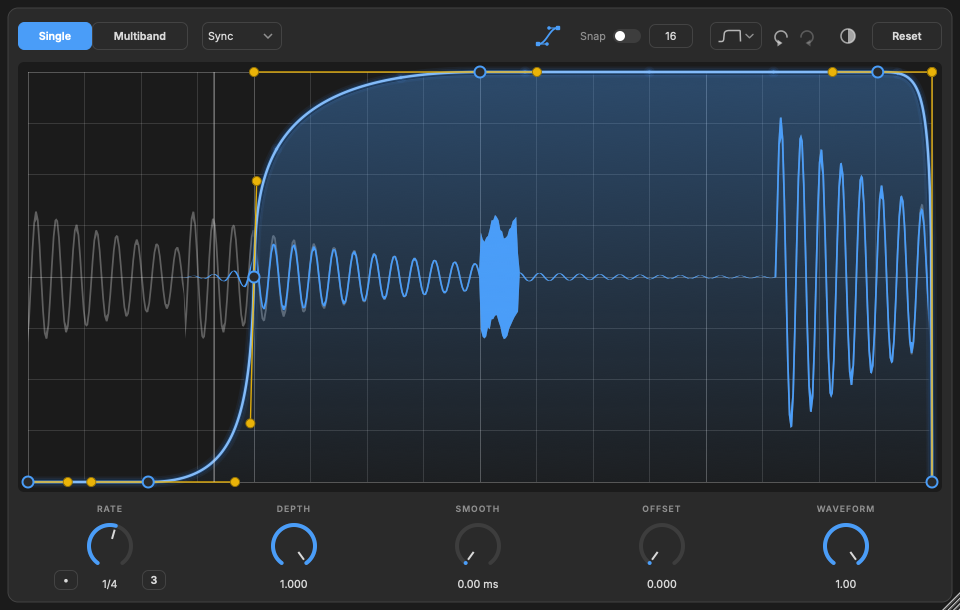
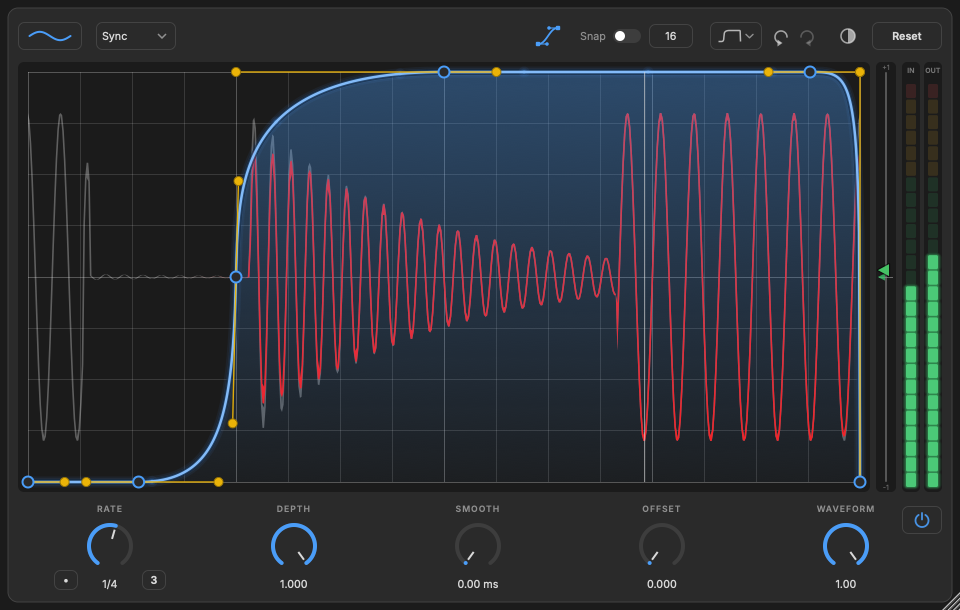
Audit cleanups: cheaper colour tracking, allocation-free spectrum, versioned curve copies; refreshed README and images; spectrum test

diff --git a/Source/Spectrum.h b/Source/Spectrum.h
@@ -1,5 +1,6 @@
 #pragma once
 // A small live spectrum for the multiband strip. Pure C++ (no JUCE): a radix-2 FFT and the dB conversion.
+// The analyser owns its buffers, window and twiddle factors, so a call allocates nothing (the editor runs it 30 times a second).
 #include <cmath>
 #include <complex>
 #include <vector>
@@ -8,48 +9,51 @@ namespace spectrum
 {
     constexpr int fftSize = 4096;
 
-    // In-place radix-2 FFT (size must be a power of two).
-    inline void fft(std::vector<std::complex<float>>& a)
+    class Analyser
     {
-        const size_t n = a.size();
-        for (size_t i = 1, j = 0; i < n; ++i)
+    public:
+        Analyser() : buf((size_t) fftSize), window((size_t) fftSize), twiddle((size_t) fftSize / 2), rev((size_t) fftSize)
         {
-            size_t bit = n >> 1;
-            for (; j & bit; bit >>= 1) j ^= bit;
-            j ^= bit;
-            if (i < j) std::swap(a[i], a[j]);
-        }
-        for (size_t len = 2; len <= n; len <<= 1)
-        {
-            const float ang = -6.28318530718f / (float) len;
-            const std::complex<float> wl(std::cos(ang), std::sin(ang));
-            for (size_t i = 0; i < n; i += len)
+            for (int i = 0; i < fftSize; ++i)
+                window[(size_t) i] = 0.5f - 0.5f * std::cos(6.28318530718f * (float) i / (float) fftSize);   // Hann
+            for (int k = 0; k < fftSize / 2; ++k)
             {
-                std::complex<float> w(1.f, 0.f);
-                for (size_t k = 0; k < len / 2; ++k)
-                {
-                    const auto u = a[i + k], v = a[i + k + len / 2] * w;
-                    a[i + k] = u + v;
-                    a[i + k + len / 2] = u - v;
-                    w *= wl;
-                }
+                const double a = -6.283185307179586 * (double) k / (double) fftSize;
+                twiddle[(size_t) k] = { (float) std::cos(a), (float) std::sin(a) };
+            }
+            for (int i = 1, j = 0; i < fftSize; ++i)   // bit-reversal table
+            {
+                int bit = fftSize >> 1;
+                for (; j & bit; bit >>= 1) j ^= bit;
+                j ^= bit;
+                rev[(size_t) i] = j;
             }
         }
-    }
 
-    // Magnitude in dB (0 dB = a full-scale sine) for bins 0..n/2, from n windowed samples.
-    inline void magnitudesDb(const float* samples, std::vector<float>& outDb)
-    {
-        std::vector<std::complex<float>> a((size_t) fftSize);
-        for (int i = 0; i < fftSize; ++i)
+        // Magnitude in dB (0 dB = a full-scale sine) for bins 0..n/2, from fftSize samples.
+        void magnitudesDb(const float* samples, std::vector<float>& outDb)
         {
-            const float w = 0.5f - 0.5f * std::cos(6.28318530718f * (float) i / (float) fftSize); // Hann
-            a[(size_t) i] = { samples[i] * w, 0.f };
+            for (int i = 0; i < fftSize; ++i) buf[(size_t) rev[(size_t) i]] = { samples[i] * window[(size_t) i], 0.f };
+            for (int len = 2; len <= fftSize; len <<= 1)
+            {
+                const int half = len / 2, stride = fftSize / len;
+                for (int i = 0; i < fftSize; i += len)
+                    for (int k = 0; k < half; ++k)
+                    {
+                        const auto u = buf[(size_t) (i + k)], v = buf[(size_t) (i + k + half)] * twiddle[(size_t) (k * stride)];
+                        buf[(size_t) (i + k)] = u + v;
+                        buf[(size_t) (i + k + half)] = u - v;
+                    }
+            }
+            outDb.resize((size_t) fftSize / 2);
+            const float norm = 4.f / (float) fftSize;   // a full-scale sine gives magnitude 1
+            for (size_t k = 0; k < outDb.size(); ++k)
+                outDb[k] = 20.f * std::log10(std::max(1e-7f, std::abs(buf[k]) * norm));
         }
-        fft(a);
-        outDb.resize((size_t) fftSize / 2);
-        const float norm = 4.f / (float) fftSize; // a full-scale sine gives magnitude 1
-        for (size_t k = 0; k < outDb.size(); ++k)
-            outDb[k] = 20.f * std::log10(std::max(1e-7f, std::abs(a[k]) * norm));
-    }
+
+    private:
+        std::vector<std::complex<float>> buf, twiddle;
+        std::vector<float> window;
+        std::vector<int> rev;
+    };
 }

diff --git a/tests/audio_test.cpp b/tests/audio_test.cpp
@@ -7,6 +7,7 @@
 // filter stability, NaN/Inf and extreme-setting robustness, tempo accuracy at 130 bpm, the sidechain bus, no
 // allocations on the audio thread, thread safety while the curve is edited, state save/load, and CPU in worst cases.
 #include "../Source/PluginProcessor.h"
+#include "../Source/Spectrum.h"
 #include "fake_host.h"
 
 #include <algorithm>
@@ -354,6 +355,25 @@ static void testMeters()
     const float mi = r.p.meterIn.load(), mo = r.p.meterOut.load();
     check(mi > 0.45f && mi < 0.52f, "input meter reads the input peak", fmt("%.3f (input peak 0.5)", mi));
     check(mo <= mi + 1e-4f && mo > 0.f, "output meter reads at most the input peak", fmt("%.3f", mo));
+}
+
+// ---------------------------------------------------------------------------------------------
+// The spectrum analyser: a sine lands in the right bin at the right level.
+// ---------------------------------------------------------------------------------------------
+static void testSpectrum()
+{
+    section("3c2. Spectrum analyser");
+    spectrum::Analyser a;
+    std::vector<float> sig((size_t) spectrum::fftSize), db;
+    const int bin = 100;
+    for (int i = 0; i < spectrum::fftSize; ++i)
+        sig[(size_t) i] = 0.5f * (float) std::sin(6.283185307179586 * (double) bin * (double) i / (double) spectrum::fftSize);
+    a.magnitudesDb(sig.data(), db);
+    size_t peak = 0;
+    for (size_t k = 1; k < db.size(); ++k) if (db[k] > db[peak]) peak = k;
+    check(peak == (size_t) bin, "a sine lands in the right bin", fmt("bin %zu (expected %d)", peak, bin));
+    check(std::abs(db[peak] - (-6.02f)) < 0.6f, "a 0.5 sine reads about -6 dB", fmt("%.2f dB", db[peak]));
+    check(db[(size_t) bin + 40] < db[peak] - 60.f, "far from the sine it is quiet", fmt("%.1f dB below", db[peak] - db[(size_t) bin + 40]));
 }
 
 // ---------------------------------------------------------------------------------------------
@@ -931,6 +951,7 @@ int main()
     testMultibandTransparent();
     testKnobLinks();
     testMeters();
+    testSpectrum();
     testBypass();
     testBlockSizes();
     testSmoothingSlew();

diff --git a/Source/PluginProcessor.cpp b/Source/PluginProcessor.cpp
@@ -608,16 +608,16 @@ void FreeLfoProcessor::processSingle(juce::AudioBuffer<float>& mainBuf, const Ho
                     lp1500 += c1500 * (mono - lp1500);
                     eLow += eCoef * (std::abs(lp150) - eLow);
                     eHigh += eCoef * (std::abs(mono - lp1500) - eHigh);
-                    if (zcEnv > 0.01f)
+                    if (isNew && zcEnv > 0.01f)   // the colour only needs updating when the position enters a new bin
                     {
                         const float mixNow = juce::jlimit(0.f, 1.f, 2.f * juce::jmin(eLow, eHigh) / (eLow + eHigh + 1e-6f));
                         auto& mixA = waveMix[(size_t) bin];
-                        mixA.store(mixA.load(std::memory_order_relaxed) * 0.94f + mixNow * 0.06f, std::memory_order_relaxed);
+                        mixA.store(mixA.load(std::memory_order_relaxed) * 0.5f + mixNow * 0.5f, std::memory_order_relaxed);
                         const float hz = juce::jlimit(40.f, 16000.f, zcrSmooth * 0.5f * (float) sr);
-                        const float t = std::log(hz / 40.f) / std::log(16000.f / 40.f);
+                        const float t = std::log(hz * (1.f / 40.f)) * (1.f / 5.9914645f);   // ln(16000 / 40)
                         auto& hue = waveHue[(size_t) bin];
                         const float old = hue.load(std::memory_order_relaxed);
-                        hue.store(old < 0.f ? t : old + (t - old) * 0.06f, std::memory_order_relaxed);
+                        hue.store(old < 0.f ? t : old + (t - old) * 0.5f, std::memory_order_relaxed);
                     }
                 }
                 lastWaveBin = bin;

diff --git a/Source/EnvelopeEditor.cpp b/Source/EnvelopeEditor.cpp
@@ -569,11 +569,19 @@ void EnvelopeEditor::frame()
     if (now - lastFrameMs < 14.0) return; // ~60 fps cap, even on 120 Hz displays
     lastFrameMs = now;
 
+    // Copy a curve only when it changed (60 times a second would otherwise copy up to three curves for nothing)
     if (dragPoint < 0 && dragKind == 0 && dragSeg < 0)
-        env = proc.getEnvelope(slot);
+    {
+        const int v = proc.envelopeVersion(slot);
+        if (v != seenVersion[0] || seenSlot != slot) { env = proc.getEnvelope(slot); seenVersion[0] = v; seenSlot = slot; }
+    }
     if (slot > 0)
         for (int other = 1; other <= 3; ++other)
-            if (other != slot) ghost[other - 1] = proc.getEnvelope(other);
+            if (other != slot)
+            {
+                const int v = proc.envelopeVersion(other);
+                if (v != seenVersion[other]) { ghost[other - 1] = proc.getEnvelope(other); seenVersion[other] = v; }
+            }
 
     // Idle = no repaint: only redraw when audio is flowing or something changed.
     const unsigned blk = proc.blockCounter.load(std::memory_order_relaxed);

diff --git a/Source/MultibandPanel.cpp b/Source/MultibandPanel.cpp
@@ -54,13 +54,14 @@ void BandStrip::updateSpectrum()
     if (specDb.empty()) { specDb.assign((size_t) spectrum::fftSize / 2, -120.f); specDbOut = specDb; }
 
     auto analyse = [&](const std::array<std::atomic<float>, FreeLfoProcessor::specSize>& fifo, std::vector<float>& smooth) {
-        std::vector<float> samples((size_t) spectrum::fftSize);
+        specSamples.resize((size_t) spectrum::fftSize);
+        auto& samples = specSamples;
         const int w = proc.specPos.load(std::memory_order_acquire);
         for (int i = 0; i < spectrum::fftSize; ++i)
             samples[(size_t) i] = fifo[(size_t) ((w + FreeLfoProcessor::specSize - spectrum::fftSize + i) % FreeLfoProcessor::specSize)]
                                       .load(std::memory_order_relaxed);
-        std::vector<float> db;
-        spectrum::magnitudesDb(samples.data(), db);
+        auto& db = specTmpDb;
+        analyser.magnitudesDb(samples.data(), db);
         for (size_t k = 0; k < smooth.size(); ++k)
             smooth[k] += (db[k] - smooth[k]) * (db[k] > smooth[k] ? 0.6f : 0.12f);
     };

diff --git a/Source/PluginProcessor.h b/Source/PluginProcessor.h
@@ -39,6 +39,7 @@ public:
     // slot 0 = the single-band curve; slots 1..3 = the low / mid / high band curves (Multiband tab)
     static constexpr int numSlots = 4;
     Envelope getEnvelope(int slot = 0) const;
+    int envelopeVersion(int slot) const { return slots[(size_t) juce::jlimit(0, numSlots - 1, slot)].version.load(std::memory_order_acquire); }   // bumps on every change: lets the editor skip copying an unchanged curve
     void setEnvelope(const Envelope& e, int slot = 0);
     // Bezier handles <-> simple bend, applied to every curve (single + the three bands) when the user flips the switch
     void convertCurveMode(bool toBezier);

diff --git a/Source/EnvelopeEditor.h b/Source/EnvelopeEditor.h
@@ -91,6 +91,8 @@ private:
     Envelope env;
     FreeLfoProcessor::UndoState gestureStart; // the curves as they were when the mouse went down
     bool haveGestureStart = false, gestureRecorded = false;
+    int seenVersion[4] = { -1, -1, -1, -1 }; // the curve versions last copied (own curve, then the three bands)
+    int seenSlot = -1;
     Envelope ghost[3]; // the other bands' curves (slots 1..3), drawn faintly for reference; not editable here
     int selected = -1;  // point whose Bezier handles are shown
     int dragPoint = -1;

diff --git a/Source/MultibandPanel.h b/Source/MultibandPanel.h
@@ -42,6 +42,8 @@ private:
     int dragHandle = -1; // 0 = low split, 1 = high split
     int lastSig = -1;
     unsigned lastBlock = 0;
+    spectrum::Analyser analyser;                       // preallocated: the 30 Hz update allocates nothing
+    std::vector<float> specSamples, specTmpDb;
     std::vector<float> specDb, specDbOut;   // smoothed live spectrum (dB per FFT bin): input, and output after the plugin
     bool specLive = false;          // something is still visible
     void updateSpectrum();

diff --git a/README.md b/README.md
@@ -50,13 +50,15 @@ It is an independent, from-scratch implementation inspired by the workflow of Xf
 - The input waveform is drawn folded onto the LFO cycle, faintly, with the **output** (what the plugin actually lets through) drawn over it in the curve's colour, so you can see where the kick and the hats land against your curve and what the ducking does to them. In the Single tab the output is coloured like a rainbow by pitch (red up to 100 Hz, then orange, yellow, green, turquoise and blue for the highs; a mix of lots of bass and highs tints pink or purple), a rough zero-crossing estimate; the input stays grey. In Multiband each band shows its own signal in its own colour (red lows, green mids, blue highs). The **Waveform** knob sets how strong this is.
 - An optional sidechain input is drawn in amber: route a kick from another mixer channel into the plugin's sidechain and you see it against your curve (display only, it never changes the sound). Where the kick and the plugin's output are both loud at the same position in the cycle, that stretch is **hatched**: a conflict between the two. The output is measured after the ducking, so a spot where your curve really ducks under the kick is not marked. In Multiband the kick is split into the same bands, so each band is compared with the matching part of the kick (the lows against the kick's lows).
 - A thin **end-of-cycle meter** beside the curve shows where the output signal (the input after the plugin's ducking, -1 to +1, same scale as the scope) was at the last point of the cycle, right when the curve drops: the big arrow pointing at the curve is the newest cycle, the small ones the cycles before. An arrow near the centre line is safe (green); one far from it turns amber, then red, and means a bass note is still swinging when the gain falls, which is where clicks come from. Duck harder at the end of the curve, ease the fall, or add a little Smooth, and watch the arrow settle at the middle. Click the meter to show an **end-zone bar** next to the arrow (hidden by default, and remembered with the project): a thin bar that spans the lowest to the highest output level over the last 4% of the cycle (it grows at once and falls back slowly, and the arrow glides to each new value), to catch heavy ducking that happens just before the end: a long red bar means the signal is still loud while the gain drops, even if the arrow itself sits at the middle. In Multiband the meter follows the selected band.
-- **IN / OUT meters** on the right are analog-style stacks of squares (mostly green, then yellow, with one red square at the top that lights at 0 dBFS and holds a moment). They show the peak level going in and coming out. They are built for loud material: 26 squares, 1.5 dB apart in the top third, a fast fall (80 dB/s) and a red square that follows the signal like the rest, so they keep moving on a loud, pumping mix.
+- **IN / OUT meters** on the right are analog-style stacks of squares (mostly green, then yellow, with one red square at the top that lights at about 0 dBFS), with a soft glow on the lit squares. They show the peak level going in and coming out. They are built for loud material: 26 squares, 1.5 dB apart in the top third, a fast fall (80 dB/s) and a red square that follows the signal like the rest, so they keep moving on a loud, pumping mix.
 - A **bypass** button (power icon) under the meters passes the audio through untouched, with a 10 ms crossfade so it never clicks, and no CPU use while it is bypassed. It is also the host's bypass: the host's own bypass button drives the same switch.
 - A grey line shows the **actual gain** after Depth, Smooth and Offset; the output waveform is the input multiplied by exactly that gain.
 - Light and dark themes (dark is the default, the choice is remembered).
 - **Resizable window** (880x500 up to 2000x1300): drag the bottom-right corner; the size is remembered.
 
-![Multiband, dark theme](docs/images/multiband-dark.png)
+![Multiband, dark theme: live input / output spectrum behind the band curves](docs/images/multiband-dark.png)
+
+![A kick routed through the sidechain, with the overlap with the bass hatched](docs/images/kick-overlap-dark.png)
 
 ![Presets popup](docs/images/presets-dark.png)
 
@@ -90,6 +92,9 @@ Only the VST3 format is built (plus a standalone app for development). AU, AAX a
 | **Bezier handles** switch | Flip between handle editing and one-diamond Simple mode (curves are converted) |
 | Drag a diamond (Simple mode) | Bend that segment through the point; double-click to straighten |
 | Drag the number next to **Snap** | Change the number of grid lines |
+| Wave icon (top left) | Switch between **Single** (one wave) and **Multiband** (three stacked waves); the icon shows the current mode |
+| Power button (under the meters) | Bypass |
+| Click the end-of-cycle meter | Show or hide the end-zone bar |
 | Half-moon button | Light / dark theme |
 | **Reset** | Restore the current curve to its default |
 
@@ -125,11 +130,13 @@ Share of **one CPU core**, measured by the offline test suite on an Apple Silico
 | Mode | 44.1 kHz | 48 kHz | 96 kHz | 192 kHz |
 |---|---|---|---|---|
 | Single band, editor closed | 0.03% | 0.03% | 0.06% | 0.12% |
-| Single band, editor open | 0.06% | 0.06% | 0.12% | 0.23% |
-| Multiband 24 dB/oct, editor closed | 0.16% | 0.18% | 0.37% | 0.71% |
-| Multiband 96 dB/oct (heaviest), editor closed | 0.46% | 0.50% | 1.00% | 2.01% |
+| Single band, editor open | 0.07% | 0.08% | 0.16% | 0.32% |
+| Multiband 24 dB/oct, editor closed | 0.17% | 0.18% | 0.37% | 0.73% |
+| Multiband 96 dB/oct (heaviest), editor closed | 0.49% | 0.51% | 1.02% | 2.02% |
+| Multiband 96 dB/oct, editor open | 0.52% | 0.56% | 1.11% | 2.19% |
+| Bypassed | ~0% | ~0% | ~0% | ~0% |
 
-(512-sample blocks; 32-sample blocks cost up to about 30% more.) The editor only costs anything while it is open. These figures are from one machine and will differ on yours, but the ratios hold: single band is almost free, and the heaviest multiband setting at 192 kHz is still around 2% of a core.
+(512-sample blocks; 32-sample blocks cost up to about 30% more.) The editor only costs anything while it is open (the waveform, spectrum and meters are only analysed then), and a bypassed plugin does nothing at all. These figures are from one machine and will differ on yours, but the ratios hold: single band is almost free, and the heaviest multiband setting at 192 kHz is still around 2% of a core.
 
 ## Testing
 
@@ -137,10 +144,10 @@ Everything below runs offline, without a DAW or a sound card. A small **fake DAW
 
 | Program | What it checks | How to run |
 |---|---|---|
-| `LfoAudioTest` | **125 audio checks**: bit-exact null at 100%, exact silence at 0%, transparency of every crossover slope, block-size independence, clicks on 24 kinds of parameter change, filter stability across 4 sample rates, NaN/Inf and zero-length blocks, a fuzz test that randomises every parameter and the transport, tempo accuracy at 130 bpm, Hz accuracy, MIDI restart, the sidechain bus, state save/load, zero allocations on the audio thread, thread safety while the curve is edited, CPU worst cases and denormals | `build/LfoAudioTest_artefacts/Release/LfoAudioTest` |
+| `LfoAudioTest` | **134 audio checks**: bit-exact null at 100%, exact silence at 0%, transparency of every crossover slope, block-size independence, clicks on 24 kinds of parameter change, filter stability across 4 sample rates, NaN/Inf and zero-length blocks, a fuzz test that randomises every parameter and the transport, tempo accuracy at 130 bpm, Hz accuracy, MIDI restart, the sidechain bus, bypass (bit-exact, click-free, allocation-free), the peak meters and the spectrum analyser, state save/load, zero allocations on the audio thread, thread safety while the curve is edited, CPU worst cases and denormals | `build/LfoAudioTest_artefacts/Release/LfoAudioTest` |
 | `tests/envelope_test.cpp` | The curve model: Bezier evaluation, Simple-mode bends, conversions between the two, the default curves, saving and loading | `clang++ -std=c++17 tests/envelope_test.cpp -o envtest && ./envtest` |
 | `tests/crossover_test.cpp` | The crossover maths for all six slopes, mixed slopes, and the drawn response curves | `clang++ -std=c++17 tests/crossover_test.cpp -o xotest && ./xotest` |
-| `LfoBench` | CPU per block, plus quick null and multiband sanity checks | `build/LfoBench_artefacts/Release/LfoBench` |
+| `LfoBench` | CPU per block (including the bypassed and editor-open cases), plus quick null and multiband sanity checks | `build/LfoBench_artefacts/Release/LfoBench` |
 | `LfoSnap` | Renders the editor to PNG files without a screen and drives it with synthetic mouse events: editing, snapping, handles, hiding, themes, header layout | `build/LfoSnap_artefacts/Release/LfoSnap <output-folder>` |
 
 The three programs that need JUCE are built with `-DFREELFO_BENCH=ON` (see below). GitHub Actions builds the Windows and macOS plugins and runs `LfoAudioTest` on both for every push; timing limits are relaxed there because shared machines are noisy.
@@ -169,11 +176,12 @@ Source/
   PluginProcessor.*     audio engine: single band, multiband, smoothing, declick, state
   Envelope.h            the curve model (no JUCE; unit-testable)
   Crossover.h           the Linkwitz-Riley band splitter (no JUCE; unit-testable)
-  Spectrum.h            FFT + dB conversion for the live spectrum (no JUCE)
+  Spectrum.h            FFT analyser for the live spectrum (no JUCE; allocation-free)
   PluginEditor.*        the window: header, tabs, knobs
   EnvelopeEditor.*      the curve editor (points, handles, snapping, drawing)
   MultibandPanel.*      the frequency strip and the multiband tab
-  PaperLookAndFeel.h    the light and dark themes and the custom controls
+  LevelMeter.h          the IN / OUT peak meters (squares with a glow)
+  PaperLookAndFeel.h    the light and dark themes and the custom controls (icon buttons, knobs, bypass)
   Fonts.h               the bundled Inter font
 Assets/Fonts/           Inter Regular and SemiBold, plus its license
 tests/                  the test programs above and the shared fake DAW
@@ -183,9 +191,10 @@ docs/images/            screenshots used in this README
 
 ## Known limitations and roadmap
 
-- **Not hardware-tested yet.** It has been developed on macOS and tested offline against a simulated host. Windows builds come from CI; hands-on testing in real DAWs (starting with FL Studio) is still to do.
+- **Tested mostly in FL Studio on Windows.** It is developed on macOS and checked offline against a simulated host; Windows builds come from CI and have been used in FL Studio. Other DAWs (Ableton, Logic, Reaper, Bitwig) and other operating systems have not been tried by hand yet.
 - **The sidechain input is display-only.** It lets you see a kick against your curve and where it conflicts with your sound, but it does not trigger the LFO. Use the host tempo, or MIDI in Hz mode.
 - **Structural switches dip the audio** for about 8 ms (the tab, the band count and the crossover slopes). It is click-free but not seamless; change them when the plugin is not playing a critical passage.
+- **Bypass stops the LFO.** While bypassed nothing is processed, so the free-running phase (Hz mode) pauses; in Sync mode the LFO follows the host position and stays on the beat.
 - **Not built yet:** a full preset browser (folders, rename), copy/paste of whole multiband setups, audio or envelope triggering, other formats (AU, AAX, CLAP).
 
 ## License and credits
